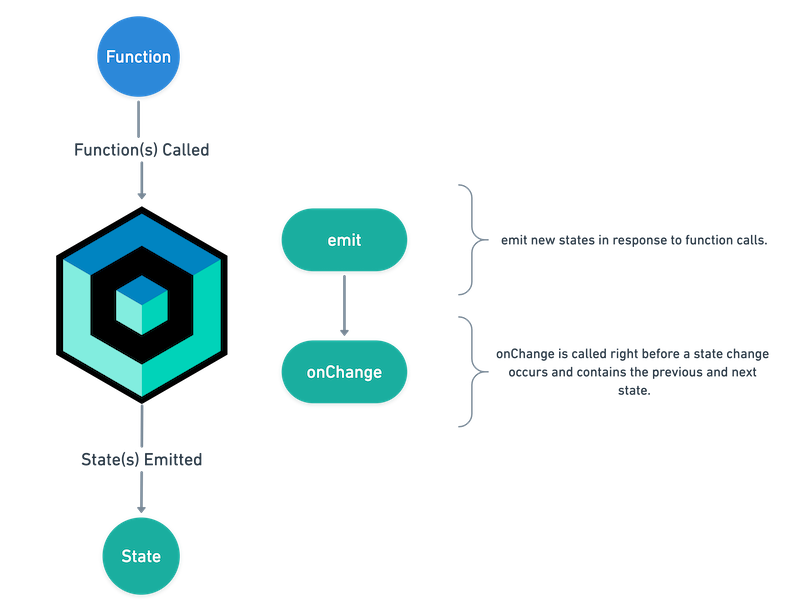
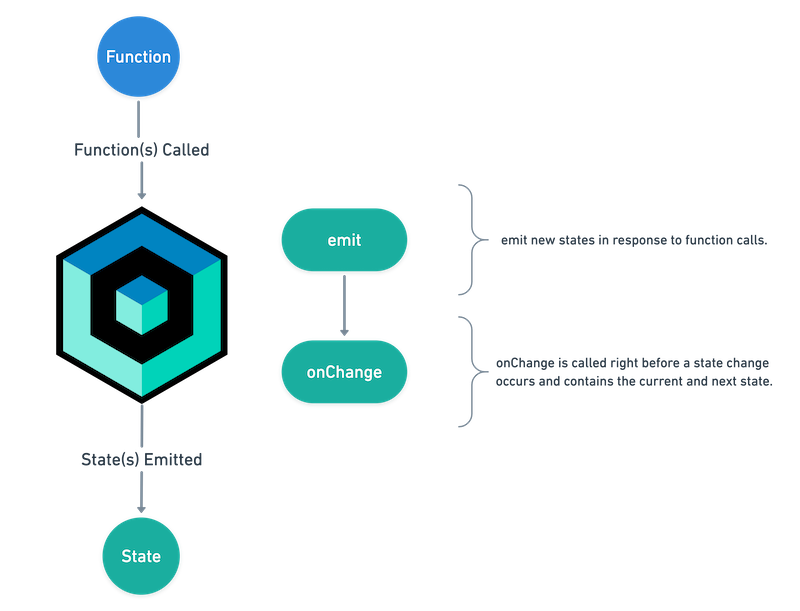
additional updates

Changed region(s): [[0.625, 0.5597, 0.9688, 0.653]]

diff --git a/packages/bloc/README.md b/packages/bloc/README.md
@@ -45,6 +45,10 @@ This design pattern helps to separate _presentation_ from _business logic_. Foll
 
 A `Cubit` is the base for `Bloc` (in other words `Bloc` extends `Cubit`). `Cubit` is a special type of `Stream` which can be extended to manage any type of state. `Cubit` requires an initial state which will be the state before `emit` has been called. The current state of a `cubit` can be accessed via the `state` getter and the state of the `cubit` can be updated by calling `emit` with a new `state`.
 
+![Cubit Flow](../../docs/assets/cubit_flow.png)
+
+The flow of state changes in cubit begin with predefined function calls which can use the `emit` method to output new states. `onChange` is called on each state change and contains the current and next state.
+
 #### Creating a Cubit
 
 ```dart
@@ -132,15 +136,15 @@ void main() {
 }
 ```
 
-#### Cubit Flow
-
-![Cubit Flow](../../docs/assets/cubit_flow.png)
-
 ### Bloc
 
 ![Bloc Architecture](https://raw.githubusercontent.com/felangel/bloc/master/docs/assets/bloc_architecture_full.png)
 
 A `Bloc` is a more advanced type of `Cubit` which relies on `events` to trigger `state` changes rather than functions. `Bloc` extends `Cubit` which means it has the same public API as `Cubit`. However, rather than calling a `function` on a `Bloc` and directly emitting a new `state`, `Blocs` receive `events` and convert the incoming `events` into outgoing `states`.
+
+![Bloc Flow](../../docs/assets/bloc_flow.png)
+
+The flow of state changes in bloc begin when events are added which triggers `onEvent`. The events are then funnelled through `transformEvents`. By default, `transformEvents` uses `asyncExpand` to ensure each event is processed in the order it was added but it can be overridden to manipulate the incoming event stream. `mapEventToState` is then invoked with the transformed events and is responsible for yielding states in response to the incoming events. `transitions` are then funnelled through `transformTransitions` which can be overridden to manipulation the outgoing state changes. Lastly, `onTransition` is called just before the state is updated and contains the current state, event, and next state.
 
 #### Creating a Bloc
 
@@ -279,10 +283,6 @@ void main() {
   // Use blocs...
 }
 ```
-
-#### Bloc Flow
-
-![Bloc Flow](../../docs/assets/bloc_flow.png)
 
 ## Dart Versions
 
